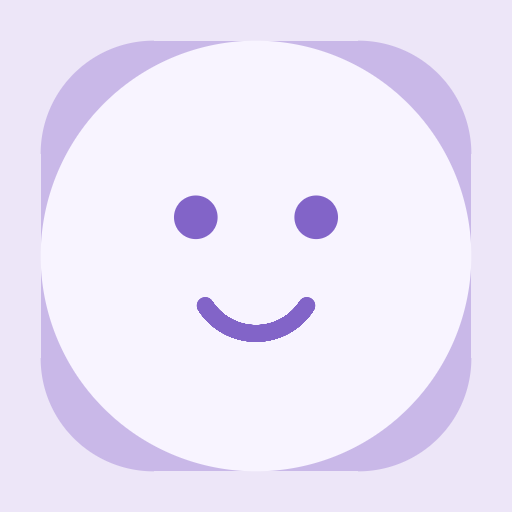
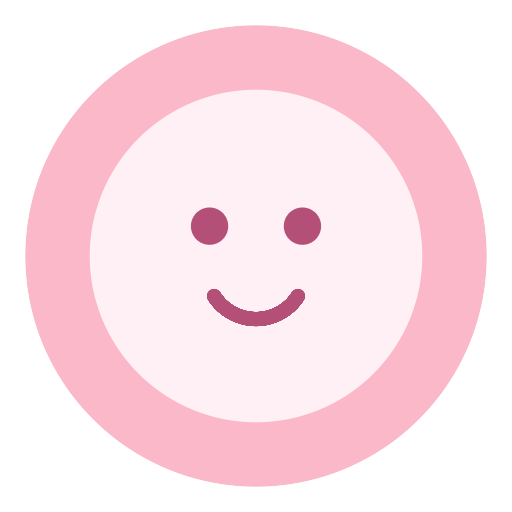
Add files via upload

diff --git a/index.html b/index.html
@@ -23,6 +23,17 @@
   --text:#1A1625;
   --sub:#8B85A0;
   --hint:#C4C0D0;
+  --nav-bg:#FFFFFF;
+}
+
+body.dark{
+  --bg:#1A1625;
+  --card:#241D33;
+  --border:rgba(255,255,255,0.08);
+  --text:#F0EAF8;
+  --sub:#9A90B4;
+  --hint:#4A4260;
+  --nav-bg:#1E1730;
 }
 
 body{
@@ -226,7 +237,7 @@ body{
   position:absolute;bottom:0;left:0;right:0;
   display:flex;justify-content:space-around;align-items:center;
   padding:10px 0 20px;
-  background:var(--card);
+  background:var(--nav-bg);
   border-top:1px solid var(--border);
   z-index:50;
 }
@@ -323,6 +334,77 @@ body{
     </div>
   </div>
 
+  <!-- SETTINGS -->
+  <div class="screen" id="screen-settings">
+    <div class="topbar">
+      <div style="font-size:18px;font-weight:800;">설정</div>
+    </div>
+
+    <!-- 다크모드 -->
+    <div style="background:var(--card);border-radius:18px;border:1.5px solid var(--border);padding:16px 18px;margin-bottom:12px;">
+      <div style="font-size:12px;font-weight:800;color:var(--sub);text-transform:uppercase;letter-spacing:0.06em;margin-bottom:12px;">화면</div>
+      <div style="display:flex;align-items:center;justify-content:space-between;">
+        <div>
+          <div style="font-size:15px;font-weight:700;color:var(--text);">다크 모드</div>
+          <div style="font-size:12px;color:var(--sub);margin-top:2px;">어두운 테마로 전환</div>
+        </div>
+        <div id="dark-toggle" onclick="toggleDark()" style="
+          width:50px;height:28px;border-radius:14px;
+          background:var(--hint);cursor:pointer;position:relative;
+          transition:background 0.25s;flex-shrink:0;
+        ">
+          <div id="dark-thumb" style="
+            position:absolute;top:3px;left:3px;
+            width:22px;height:22px;border-radius:50%;
+            background:#fff;transition:transform 0.25s;
+          "></div>
+        </div>
+      </div>
+    </div>
+
+    <!-- 데이터 -->
+    <div style="background:var(--card);border-radius:18px;border:1.5px solid var(--border);padding:16px 18px;margin-bottom:12px;">
+      <div style="font-size:12px;font-weight:800;color:var(--sub);text-transform:uppercase;letter-spacing:0.06em;margin-bottom:12px;">데이터</div>
+
+      <button onclick="exportJSON()" style="
+        width:100%;font-family:'Nunito',sans-serif;font-size:14px;font-weight:700;
+        padding:13px;border-radius:12px;border:1.5px solid var(--border);
+        background:var(--bg);color:var(--text);cursor:pointer;
+        display:flex;align-items:center;gap:10px;margin-bottom:8px;
+        transition:background 0.15s;
+      ">
+        <svg width="18" height="18" viewBox="0 0 24 24" fill="none" stroke="currentColor" stroke-width="2" stroke-linecap="round" stroke-linejoin="round"><path d="M21 15v4a2 2 0 01-2 2H5a2 2 0 01-2-2v-4"/><polyline points="7 10 12 15 17 10"/><line x1="12" y1="15" x2="12" y2="3"/></svg>
+        JSON 내보내기
+      </button>
+
+      <label style="
+        width:100%;font-family:'Nunito',sans-serif;font-size:14px;font-weight:700;
+        padding:13px;border-radius:12px;border:1.5px solid var(--border);
+        background:var(--bg);color:var(--text);cursor:pointer;
+        display:flex;align-items:center;gap:10px;
+        transition:background 0.15s;box-sizing:border-box;
+      ">
+        <svg width="18" height="18" viewBox="0 0 24 24" fill="none" stroke="currentColor" stroke-width="2" stroke-linecap="round" stroke-linejoin="round"><path d="M21 15v4a2 2 0 01-2 2H5a2 2 0 01-2-2v-4"/><polyline points="17 8 12 3 7 8"/><line x1="12" y1="3" x2="12" y2="15"/></svg>
+        JSON 불러오기
+        <input type="file" accept=".json" onchange="importJSON(event)" style="display:none"/>
+      </label>
+    </div>
+
+    <!-- 앱 정보 -->
+    <div style="background:var(--card);border-radius:18px;border:1.5px solid var(--border);padding:16px 18px;">
+      <div style="font-size:12px;font-weight:800;color:var(--sub);text-transform:uppercase;letter-spacing:0.06em;margin-bottom:12px;">앱 정보</div>
+      <div style="display:flex;align-items:center;gap:12px;">
+        <div style="width:44px;height:44px;border-radius:14px;background:#FAE6EC;display:flex;align-items:center;justify-content:center;">
+          <canvas id="settings-icon" width="44" height="44" style="width:44px;height:44px;"></canvas>
+        </div>
+        <div>
+          <div style="font-size:15px;font-weight:800;color:var(--text);">Mosaic</div>
+          <div style="font-size:12px;color:var(--sub);">습관 트래커 v1.0</div>
+        </div>
+      </div>
+    </div>
+  </div>
+
   <!-- BOTTOM NAV -->
   <div class="bottom-nav">
     <button class="nav-btn active" id="nav-home" onclick="setTab('home')">
@@ -336,6 +418,10 @@ body{
     <button class="nav-btn" id="nav-cal" onclick="setTab('cal')">
       <svg viewBox="0 0 24 24"><rect x="3" y="4" width="18" height="18" rx="2"/><line x1="16" y1="2" x2="16" y2="6"/><line x1="8" y1="2" x2="8" y2="6"/><line x1="3" y1="10" x2="21" y2="10"/></svg>
       <span>달력</span>
+    </button>
+    <button class="nav-btn" id="nav-settings" onclick="setTab('settings')">
+      <svg viewBox="0 0 24 24"><circle cx="12" cy="12" r="3"/><path d="M19.4 15a1.65 1.65 0 00.33 1.82l.06.06a2 2 0 010 2.83 2 2 0 01-2.83 0l-.06-.06a1.65 1.65 0 00-1.82-.33 1.65 1.65 0 00-1 1.51V21a2 2 0 01-4 0v-.09A1.65 1.65 0 009 19.4a1.65 1.65 0 00-1.82.33l-.06.06a2 2 0 01-2.83 0 2 2 0 010-2.83l.06-.06A1.65 1.65 0 004.68 15a1.65 1.65 0 00-1.51-1H3a2 2 0 010-4h.09A1.65 1.65 0 004.6 9a1.65 1.65 0 00-.33-1.82l-.06-.06a2 2 0 010-2.83 2 2 0 012.83 0l.06.06A1.65 1.65 0 009 4.68a1.65 1.65 0 001-1.51V3a2 2 0 014 0v.09a1.65 1.65 0 001 1.51 1.65 1.65 0 001.82-.33l.06-.06a2 2 0 012.83 0 2 2 0 010 2.83l-.06.06A1.65 1.65 0 0019.4 9a1.65 1.65 0 001.51 1H21a2 2 0 010 4h-.09a1.65 1.65 0 00-1.51 1z"/></svg>
+      <span>설정</span>
     </button>
   </div>
 </div>
@@ -428,12 +514,102 @@ function buildLogo(){
 
 // TAB
 function setTab(tab){
-  ['home','stats','cal'].forEach(t=>{
+  ['home','stats','cal','settings'].forEach(t=>{
     document.getElementById('screen-'+t).classList.toggle('active',t===tab);
     document.getElementById('nav-'+t).classList.toggle('active',t===tab);
   });
-  if(tab==='stats')renderStats();
-  if(tab==='cal')renderCal();
+  if(tab==='stats') renderStats();
+  if(tab==='cal') renderCal();
+  if(tab==='settings') renderSettingsIcon();
+}
+
+// DARK MODE
+let darkMode = localStorage.getItem('mosaic_dark')==='1';
+function applyDark(){
+  document.body.classList.toggle('dark', darkMode);
+  const toggle = document.getElementById('dark-toggle');
+  const thumb = document.getElementById('dark-thumb');
+  if(!toggle) return;
+  toggle.style.background = darkMode ? '#9B7FCC' : 'var(--hint)';
+  thumb.style.transform = darkMode ? 'translateX(22px)' : 'translateX(0)';
+}
+function toggleDark(){
+  darkMode = !darkMode;
+  localStorage.setItem('mosaic_dark', darkMode ? '1' : '0');
+  applyDark();
+}
+
+// JSON 내보내기
+function exportJSON(){
+  const data = JSON.stringify({habits, exportedAt: new Date().toISOString()}, null, 2);
+  const blob = new Blob([data], {type:'application/json'});
+  const url = URL.createObjectURL(blob);
+  const a = document.createElement('a');
+  a.href = url;
+  a.download = `mosaic-backup-${new Date().toISOString().slice(0,10)}.json`;
+  a.click();
+  URL.revokeObjectURL(url);
+}
+
+// JSON 불러오기
+function importJSON(e){
+  const file = e.target.files[0];
+  if(!file) return;
+  const reader = new FileReader();
+  reader.onload = ev => {
+    try {
+      const parsed = JSON.parse(ev.target.result);
+      const imported = parsed.habits || parsed;
+      if(!Array.isArray(imported)) throw new Error('invalid');
+      habits = imported;
+      save();
+      buildHabits();
+      buildWeekStrip();
+      showToast('데이터를 불러왔어요!');
+    } catch(err){
+      showToast('파일을 읽을 수 없어요');
+    }
+  };
+  reader.readAsText(file);
+  e.target.value = '';
+}
+
+// TOAST
+function showToast(msg){
+  let t = document.getElementById('toast');
+  if(!t){
+    t = document.createElement('div');
+    t.id = 'toast';
+    t.style.cssText = `
+      position:fixed;bottom:90px;left:50%;transform:translateX(-50%);
+      background:#1A1625;color:#fff;font-family:'Nunito',sans-serif;
+      font-size:13px;font-weight:700;padding:10px 20px;border-radius:20px;
+      z-index:999;opacity:0;transition:opacity 0.2s;white-space:nowrap;
+    `;
+    document.body.appendChild(t);
+  }
+  t.textContent = msg;
+  t.style.opacity = '1';
+  clearTimeout(t._timer);
+  t._timer = setTimeout(()=>{ t.style.opacity='0'; }, 2000);
+}
+
+// SETTINGS ICON (웃는 얼굴 미니)
+function renderSettingsIcon(){
+  const cvs = document.getElementById('settings-icon');
+  if(!cvs) return;
+  const ctx = cvs.getContext('2d');
+  const s = 44, cx = 22, cy = 22, r = 16;
+  ctx.clearRect(0,0,s,s);
+  ctx.beginPath(); ctx.arc(cx,cy,r,0,Math.PI*2);
+  ctx.fillStyle='#FAE6EC'; ctx.fill();
+  ctx.fillStyle='#D8809A';
+  [[cx-5,cy-4],[cx+5,cy-4]].forEach(([x,y])=>{
+    ctx.beginPath(); ctx.arc(x,y,2.2,0,Math.PI*2); ctx.fill();
+  });
+  ctx.beginPath();
+  ctx.arc(cx, cy+2, 7, 0.15*Math.PI, 0.85*Math.PI);
+  ctx.strokeStyle='#D8809A'; ctx.lineWidth=2.2; ctx.lineCap='round'; ctx.stroke();
 }
 
 // WEEK STRIP — dayOffset: 마지막 날(오른쪽 끝)의 오프셋, 기본 0(오늘)
@@ -960,6 +1136,7 @@ function shiftMonth(d){
 buildLogo();
 buildWeekStrip();
 buildHabits();
+applyDark();
 
 // PWA Service Worker 등록
 if('serviceWorker' in navigator){